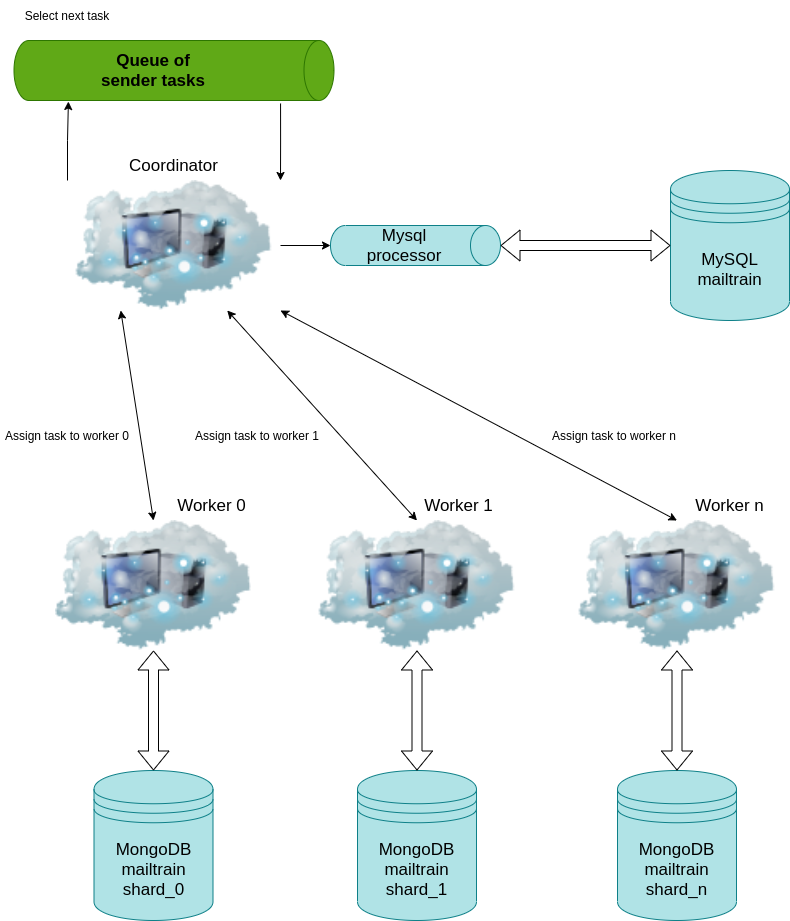
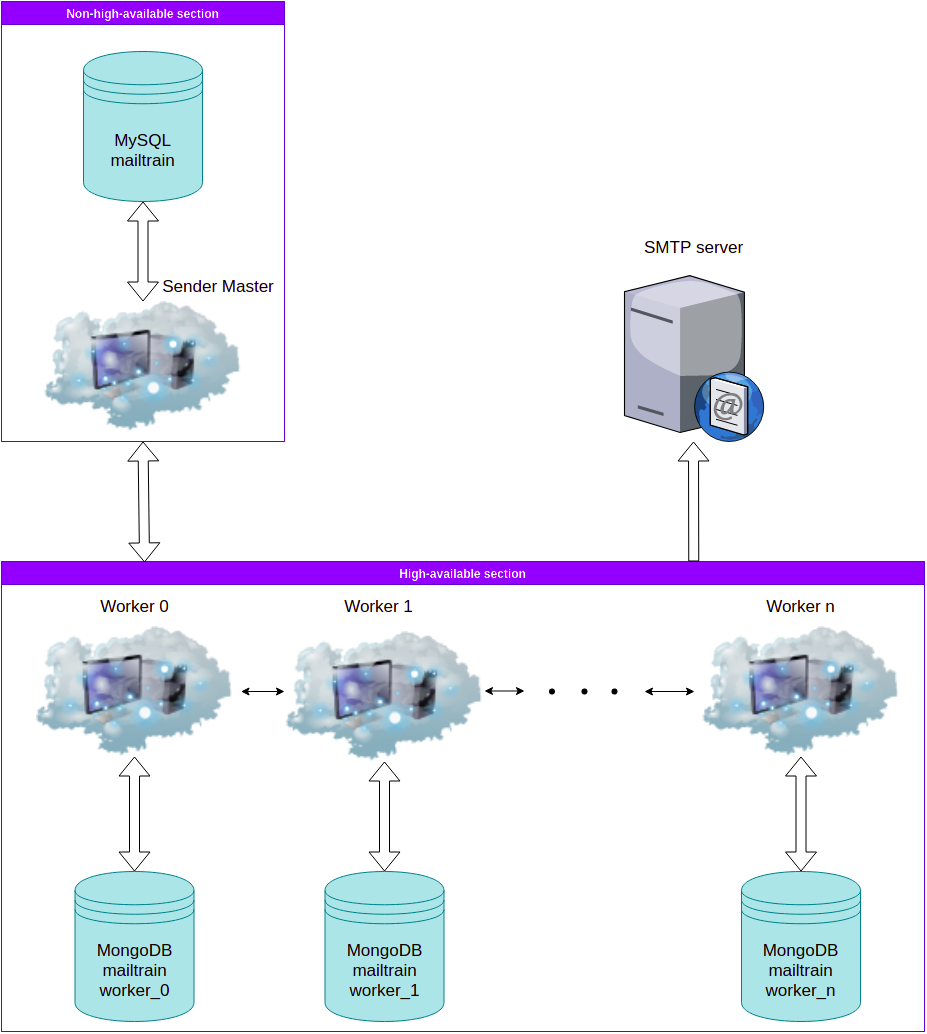
Fixed documentation

diff --git a/docs/solution.md b/docs/solution.md
@@ -1,6 +1,6 @@
 # Architecture shortcomings
 
-In this chapter, we are going to describe the base shortcomings and limits that current architecture contains. It means describing the main bottlenecks in the current architecture, analyzing the components responsible for this. Finally, we will introduce the solution (it includes the distributed architecture of the whole application, distributed architecture for the database, and expected performance).
+In this chapter, we are going to describe the base shortcomings and limits that current architecture contains. It means describing the main bottlenecks in the current architecture, analyzing the components responsible for this. Finally, we will introduce the solution (it includes the distributed architecture of the whole component, distributed architecture for the database, and expected performance).
 
 ## The main bottlenecks
 
@@ -14,15 +14,16 @@ Here we can see the architecture of Sender component:
 
 Here we can see the design of MySQL mailtrain database:
 
-<img src="img/mailtrain.png" alt="mailtrain-img" width="100%"/>
+<img src="img/mailtrain-database.png" alt="mailtrain-database-img" width="100%"/>
 
-As we can see, the master process takes tasks from the queue (each task includes sending some email from any campaign) and send it balanced to each worker. A worker then makes the formatted email and sends it to the SMTP server which sends it to the receiver.
+As we can see, the master process takes tasks from the queue (each task includes sending some email from any campaign) and send it balanced to each worker. A worker then makes a formatted email and sends it to the SMTP server which sends it to a receiver.
 
-We have 3 main bottlenecks in our current architecture of Sender:
+We have 4 main bottlenecks in our current architecture of Sender:
 
-- Centralized MySQL: As we can see from the diagram, the first biggest bottleneck is in a situation, when all workers need to access to MySQL database.
+- SMTP server: The first bottleneck is in the current SMTP server, we use a centralized serial SMTP server for sending emails. So when workers format their emails for sending, then all workers must wait for SMTP server processing.
 - Centralized workers: The second bottleneck is that we have already parallel architecture of Sender which runs only on one machine. We have already reached the limit of Amdahl's law and further adding processes (workers) on one machine would only make the situation worse.
-- SMTP server: The last bottleneck is in the current SMTP server, we use a centralized serial SMTP server for sending emails. So when workers make the whole email for sending, then all emails must wait for SMTP processing.
+- Centralized MySQL: As we can see from the diagram, the third big bottleneck is in a situation, when all workers need to query the same MySQL database.
+- Centralized sending attachments: In the current implementation, attachments are sent through the public endpoint by one process. The main problem starts when there are too many simultaneously sent requests from subscribers for sending attachments. It also slows down workers because they work on the same machine and query the same database. It is the last bottleneck that we will solve with a distributed solution.
 
 ## Performance tests
 
@@ -66,28 +67,67 @@ Now we are going to look deep at the second half of worker time. This is the exa
     </ul>
 </ul>
 
-The test was run with 1 worker which sent 5000 emails, real time was approximately 312s. As we could expect, the most expensive queries are those which select data from the biggest tables (it means 'campaign_messages, subscription_i, ...).
+The test was run with 1 worker which sent 5000 emails, real time was approximately 312s. As we could expect, the most expensive queries are those which select data from the biggest tables (it means campaign_messages, subscription__i, ...).
 
 ## Architecture improvements
 
-The best solution for solving all of these bottlenecks is to make all of these components distributed. Now we are going to describe solutions for each bottleneck.
+The best solution for solving all of these bottlenecks is to make the whole Sender component distributed. Now we are going to describe solutions for each component that causes a bottleneck. Whereas solutions are distributed we have to solve also a high-availability problem for each bottleneck solution and not only a high-performance problem.
 
-### Distributed database
+### Distributed SMTP server
 
-To solve the first bottleneck we need to make a distributed database for too big tables because queries to these tables take the most time. From the previous analysis, we know that it includes tables (campaign_messages, subscription_i, queued, ...). There are also a lot of small tables to which there are often sent queries (permissions, shares, settings, files, ...) but it takes a negligible amount of time. So it will stay at the centralized MySQL database. We will use MongoDB for horizontal scaling of our database.
-
-TODO: add diagram
+Specific SMTP server selection depends only on a client's decision whether he will select some fast parallel and distributed SMTP server or something else. So this bottleneck we can't influence and in our result architecture we will assume that we use some
+SMTP server which doesn't negatively affect performance and availability.
 
 ### Distributed workers
 
-To solve the second bottleneck we need to create a cluster and enable horizontal scaling for workers as we can see on the diagram below. When we allocate enough workers on enough amount of computers then sending speeds up rapidly.
+**High-performance solution**:
+
+To solve the first bottleneck we need to create a cloud and enable horizontal scaling for workers as we can see on the diagram below. When we allocate enough workers on enough amount of computers then sending emails speeds up rapidly.
 
 <p align="center">
     <img src="img/distributed-master-worker.png" alt="distributed-master-worker-img" width="80%"/>
 </p>
 
-### Distributed SMTP server
+**High-availability solution**:
 
-Specific SMTP server selection depends only on a client's decision whether he will select some fast parallel and distributed SMTP server or something else. So this bottleneck we can't influence and in our result architecture we will assume that we use some
-SMTP server which doesn't slow down sending emails.
+As you can see from the diagram, the main problem will come when the master crashes. Then all workers can't continue sending their emails and have to wait for the master restart. To avoid this problem we have divided the component into 3 parts:
 
+- Non-high-available section
+- High-available section
+- SMTP server
+
+As we said in the previous section, we assume SMTP server is high-performance and high-available. The High-available section contains workers which send emails and attachments (it will be deeply explained in the last solution) independent of the non-high-available section. In the previous Sender architecture, there was a sender master which takes sender tasks from the queue and then sends all these tasks balanced to each worker. So workers couldn't work independently of sender master because there were a lot of tasks for one campaign and each task contained a little chunk of emails.
+
+If we want to ensure workers could work independently of sender master then we have to precisely define which emails a specific worker sends. It will be defined according to the hash of the receiver email. When the sender master wants to start sending emails for some campaign then all workers will request data from the sender master which they need for sending their emails (it includes tempates, send_configuration, ...). This is the only communication between high-available and non-high-available sections. When workers receive data then they can send all emails independent of sender master.
+
+The non-high-available section contains all other services which do not run in the high-available section and also it runs centralized on the same machine.
+### Distributed database
+
+**High-performance solution**:
+
+To solve the second bottleneck we need to make a distributed database for too big tables because queries to these tables take the most time. From the previous analysis, we know that it includes tables (campaign_messages, subscription__i and queued). There are also a lot of small tables to which there are often sent queries (permissions, shares, settings, files, ...) but it takes a negligible amount of time. So it will stay at the centralized MySQL database but as we said in the previous solution when we need some of these data we will request it from the sender master at once and store it in worker partial database as temporary data. After sending all worker emails, he will delete these temporary data. We will use MongoDB for horizontal scaling of our database.
+
+<p align="center">
+    <img src="img/shard.png" alt="shard-img" width="20%" height="400"/>
+</p>
+
+Each worker's shard contains collections made from MySQL tables(campaign_messages, subscription__i and queued) and temporary data which are needed for sending emails in this shard.
+
+**High-availability solution**:
+
+We have to also ensure high-availability in the situation when some worker crashes. For ensuring high-availability in this situation each worker has to have also replicated data from other workers.
+
+<p align="center">
+    <img src="img/distributed-database.png" alt="distributed-database-img" width="80%"/>
+</p>
+
+As we can see from the diagram, in the best state worker_i contains his primary shard and also replicated shard from the worker_i-1. We always want to be in a state when for each worker we have primary shard and also replicated shard which runs on some alive worker. For ensuring this, in the situation when worker_i crashes then the next alive worker (we can call him worker_j) has to send replicated data of worker_i to the next alive worker of worker_j (we can call him worker_k) and starts to send emails also for worker_i. When worker_i starts to run then worker_j has to stop sending emails for worker_i, sends him his updated shard, and also sends a message to worker_k he can delete replicated shard of worker_i.
+### Distributed sending attachments
+
+**High-performance solution**:
+
+To solve the third bottleneck we need to move the whole public endpoint to the high-available section where workers work and ensure distributed and balanced sending attachments by workers. It requires one worker (we can call him attachment worker) who will receive requests from the public endpoint and then balanced send all these requests among workers.
+
+**High-availability solution**:
+
+We have to also ensure public endpoint will also work in the situation when the attachment worker crashes. For ensuring high-availability we will use some middleware (such as Redis) that solves this problem.
